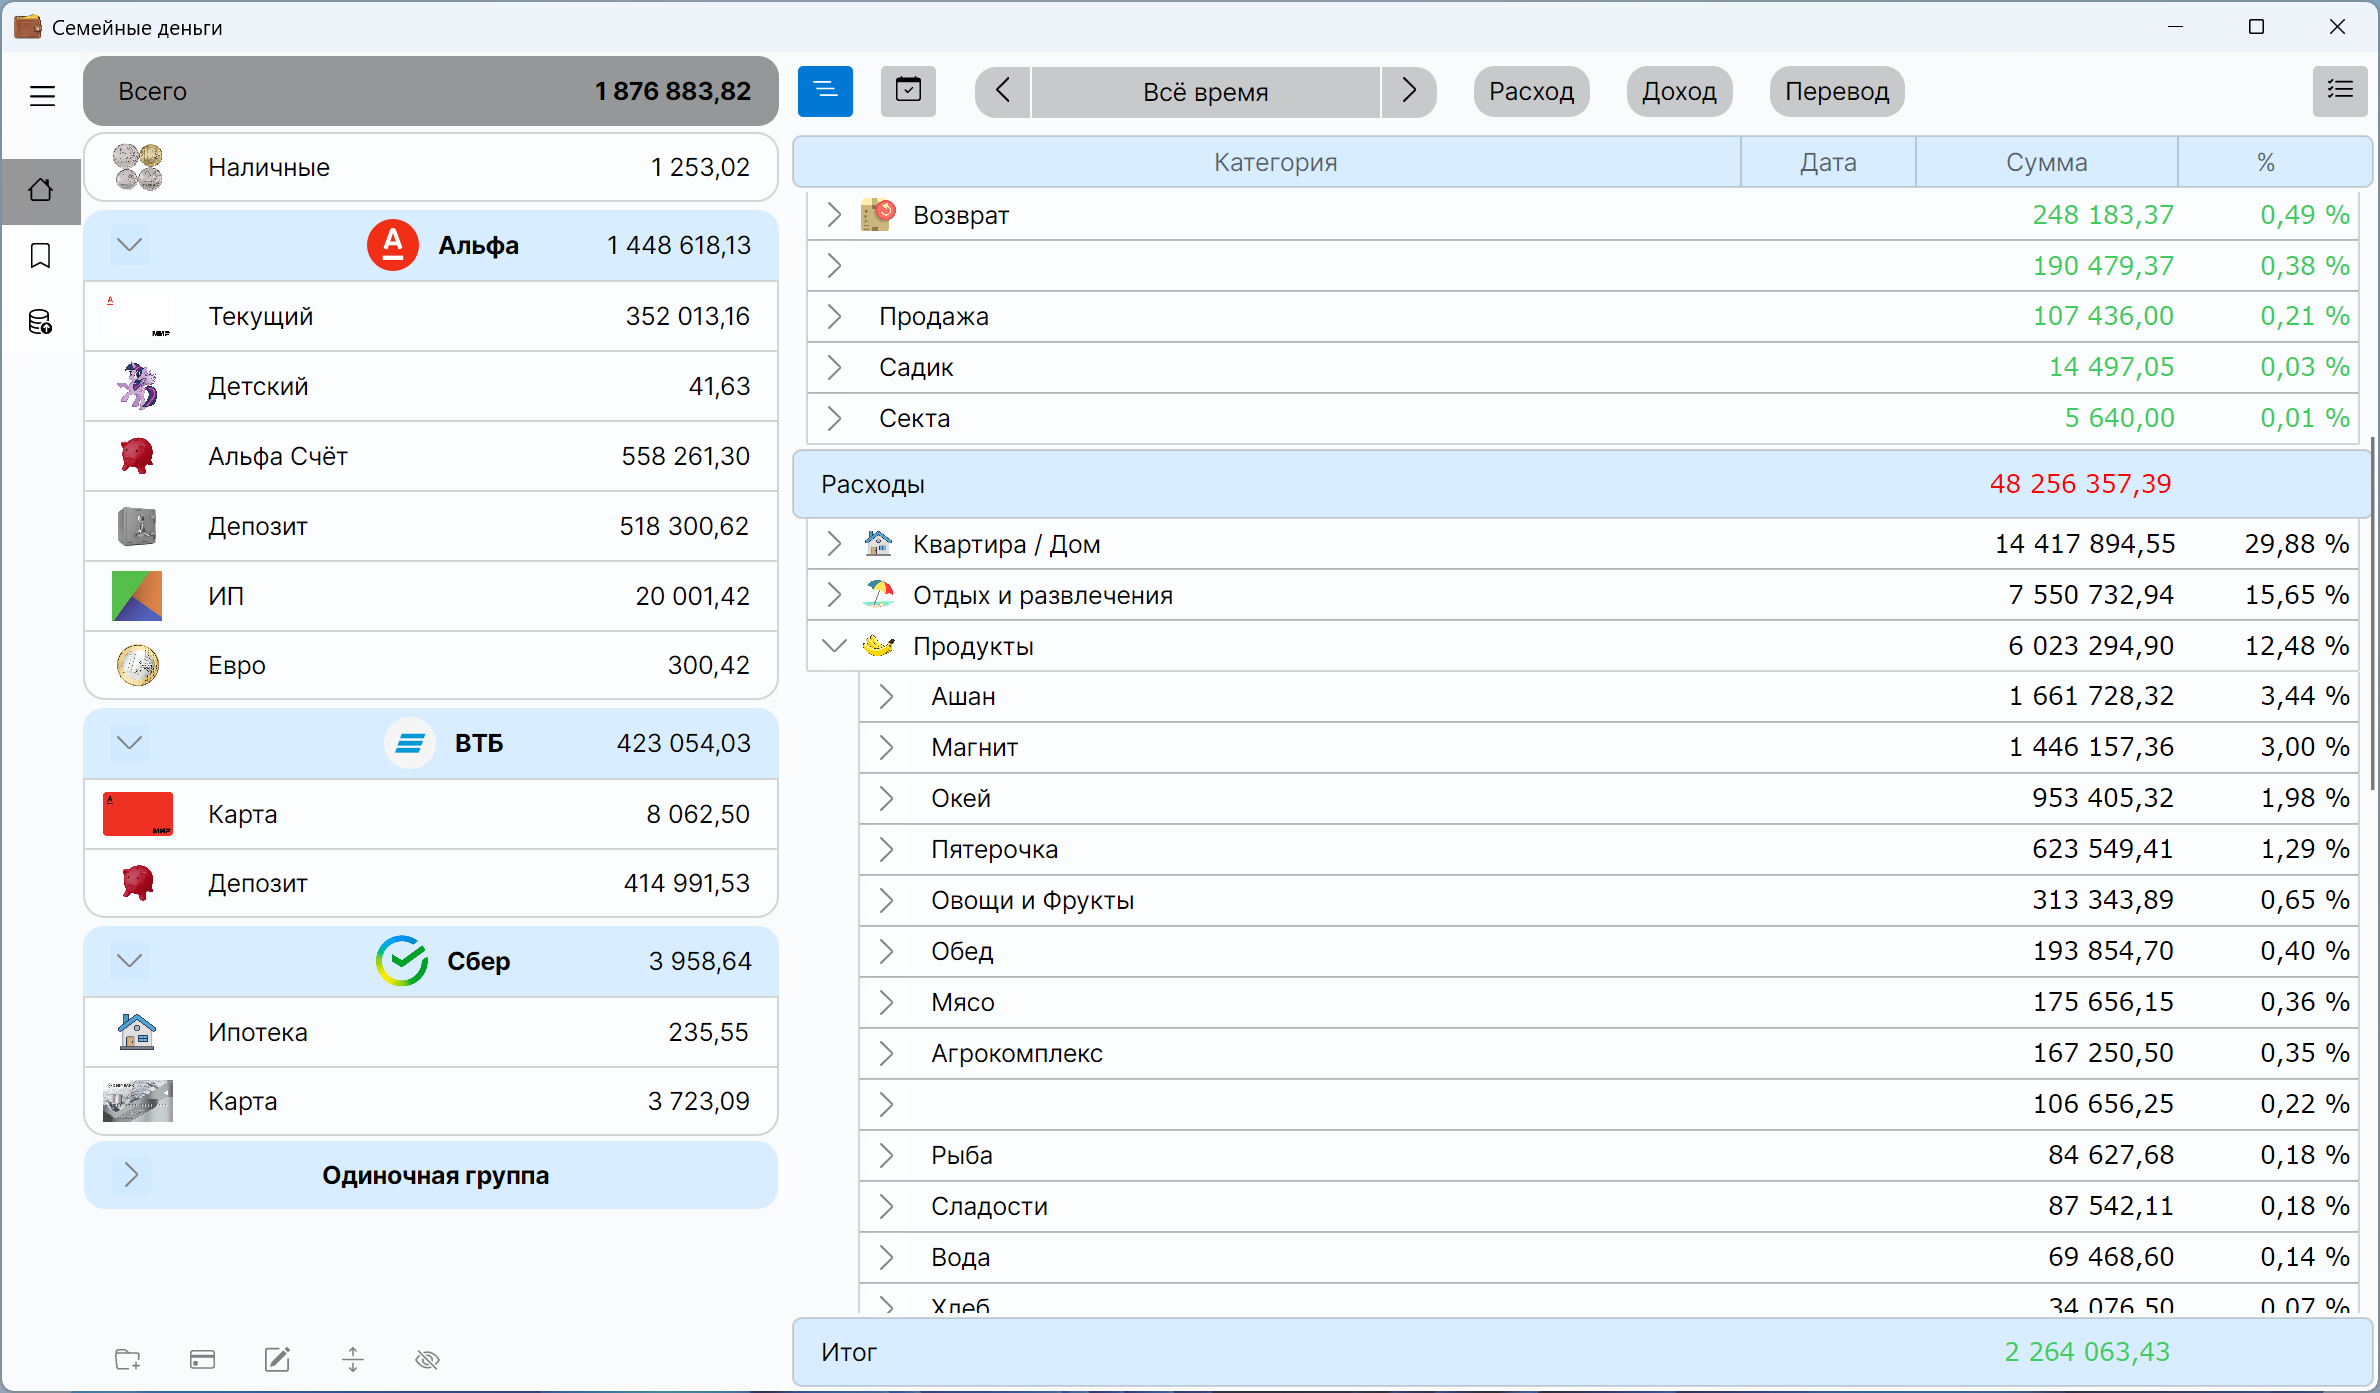
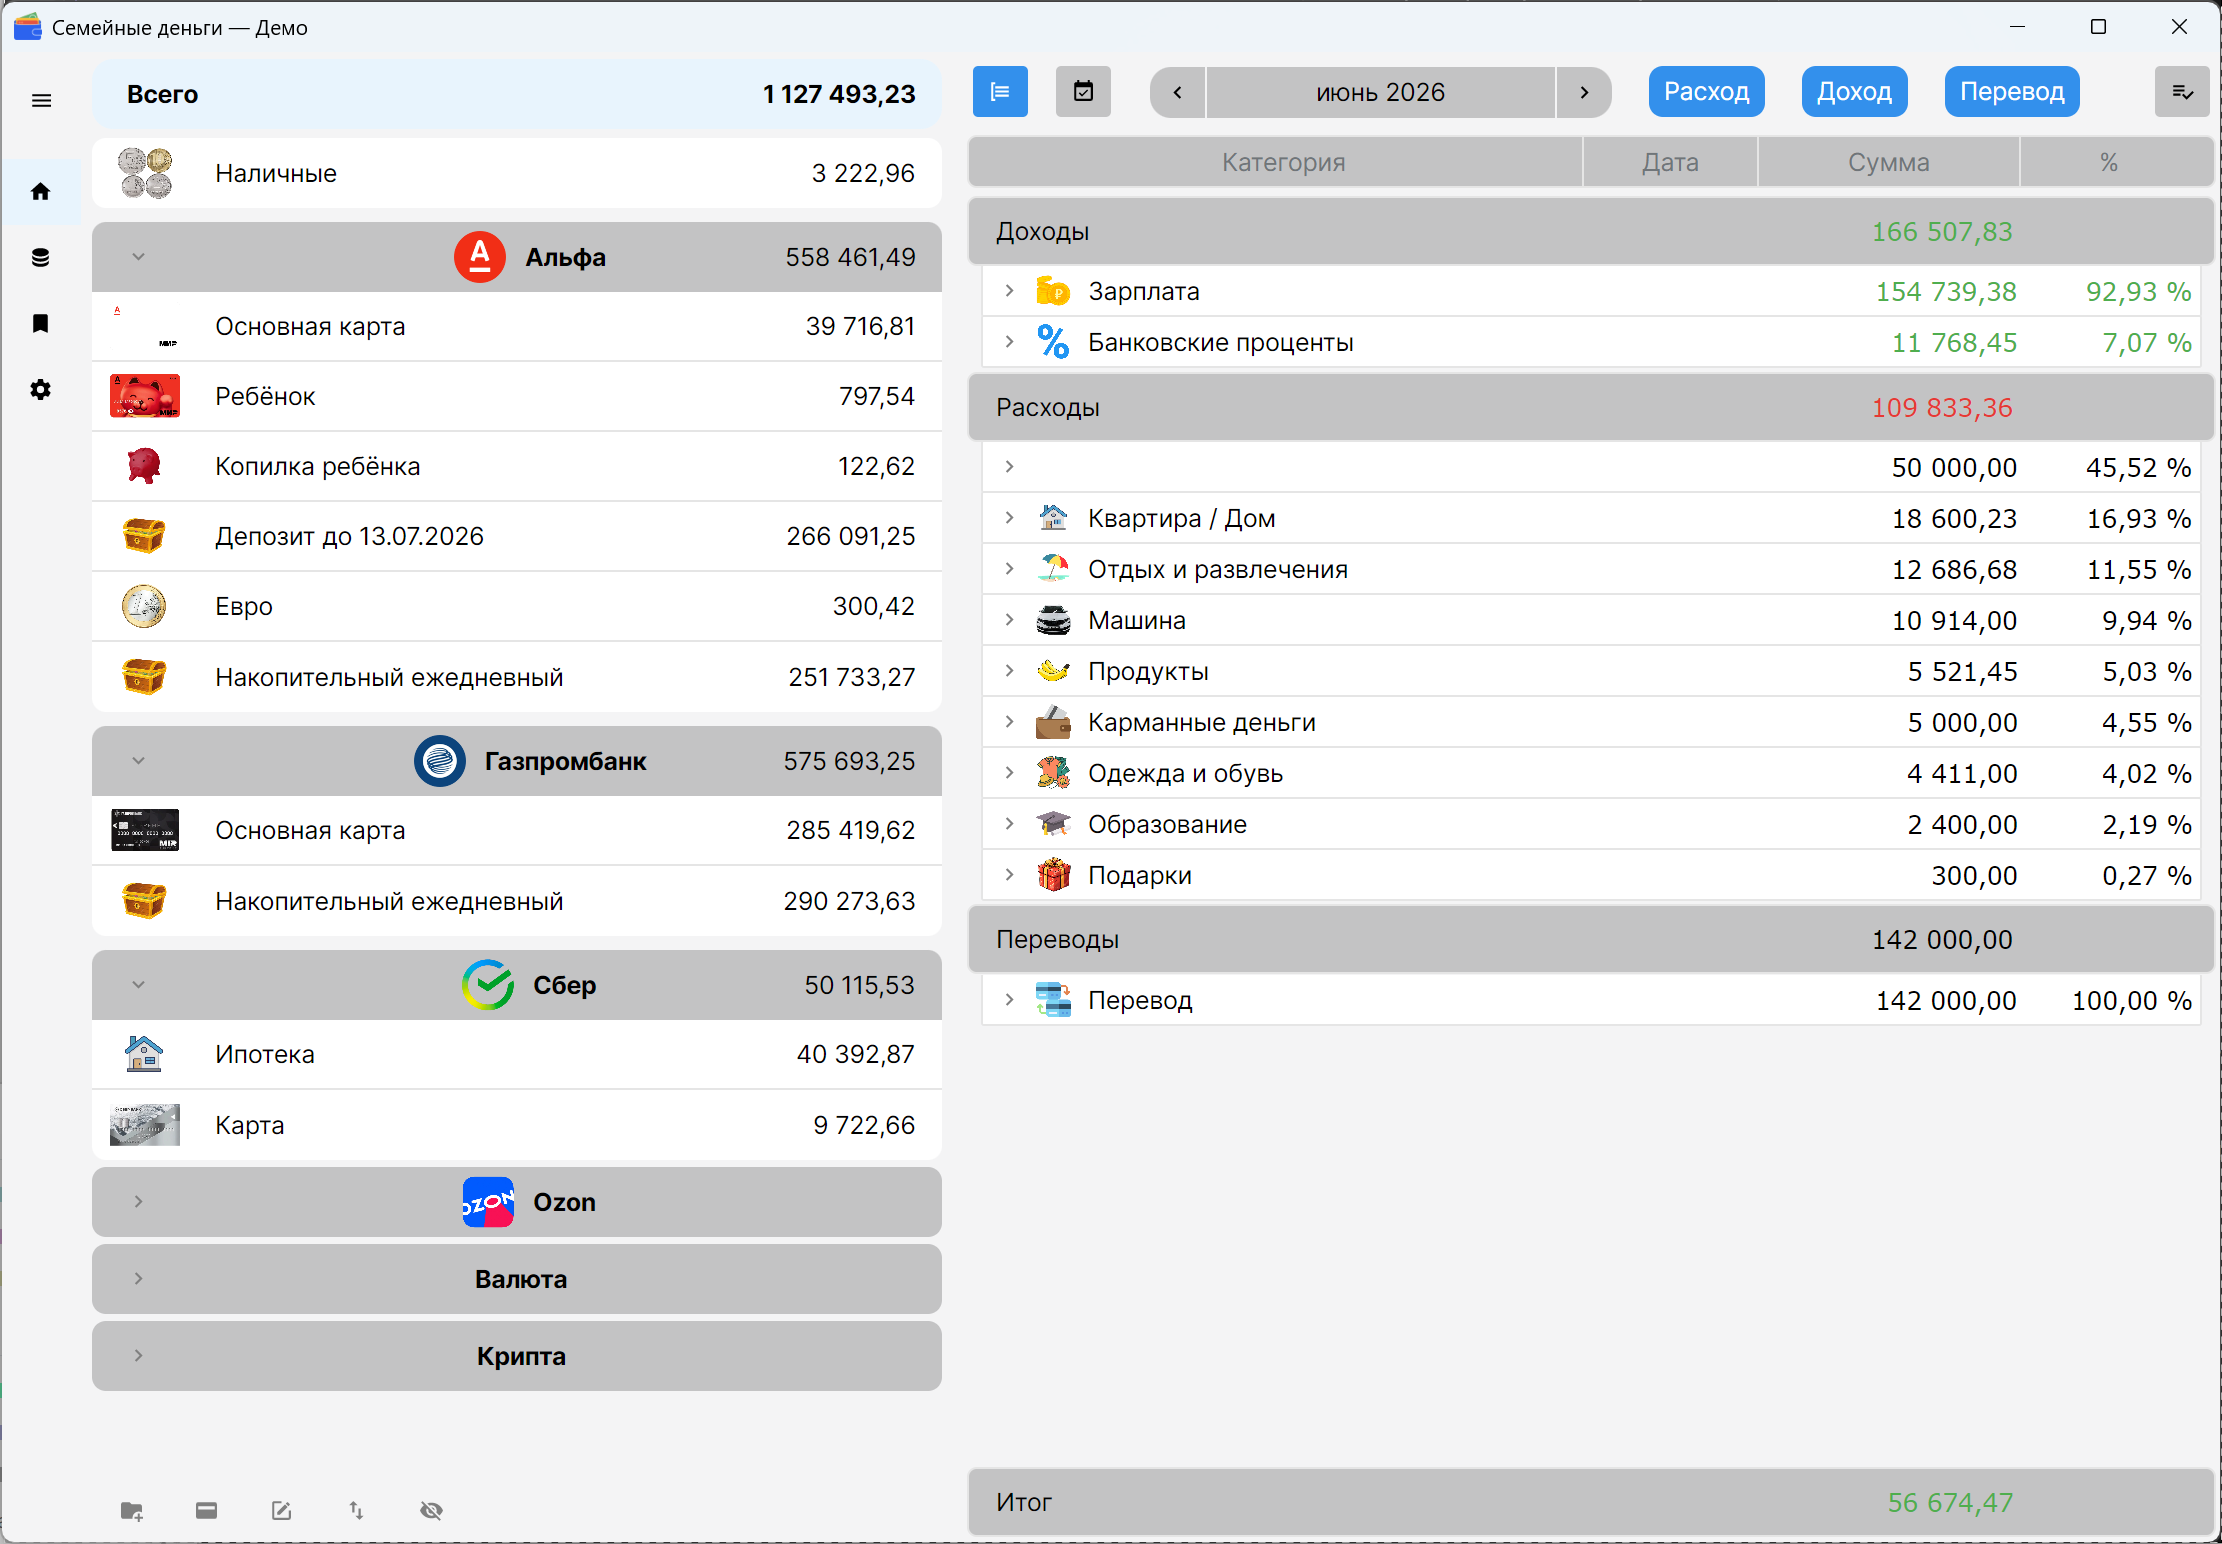
README

diff --git a/README.md b/README.md
@@ -43,9 +43,9 @@
 
 - .NET 10
 - [Avalonia UI](https://avaloniaui.net/) 12 + Fluent Theme
-- LiteDB
-- CommunityToolkit.Mvvm
-- Синхронизация: S3-совместимое API (FluentStorage)
+- [LiteDB](https://www.litedb.org/)
+- [CommunityToolkit.Mvvm](https://github.com/communitytoolkit)
+- Синхронизация: S3-совместимое API ([FluentStorage](https://github.com/robinrodricks/FluentStorage))
 
 ## Сборка и запуск
 